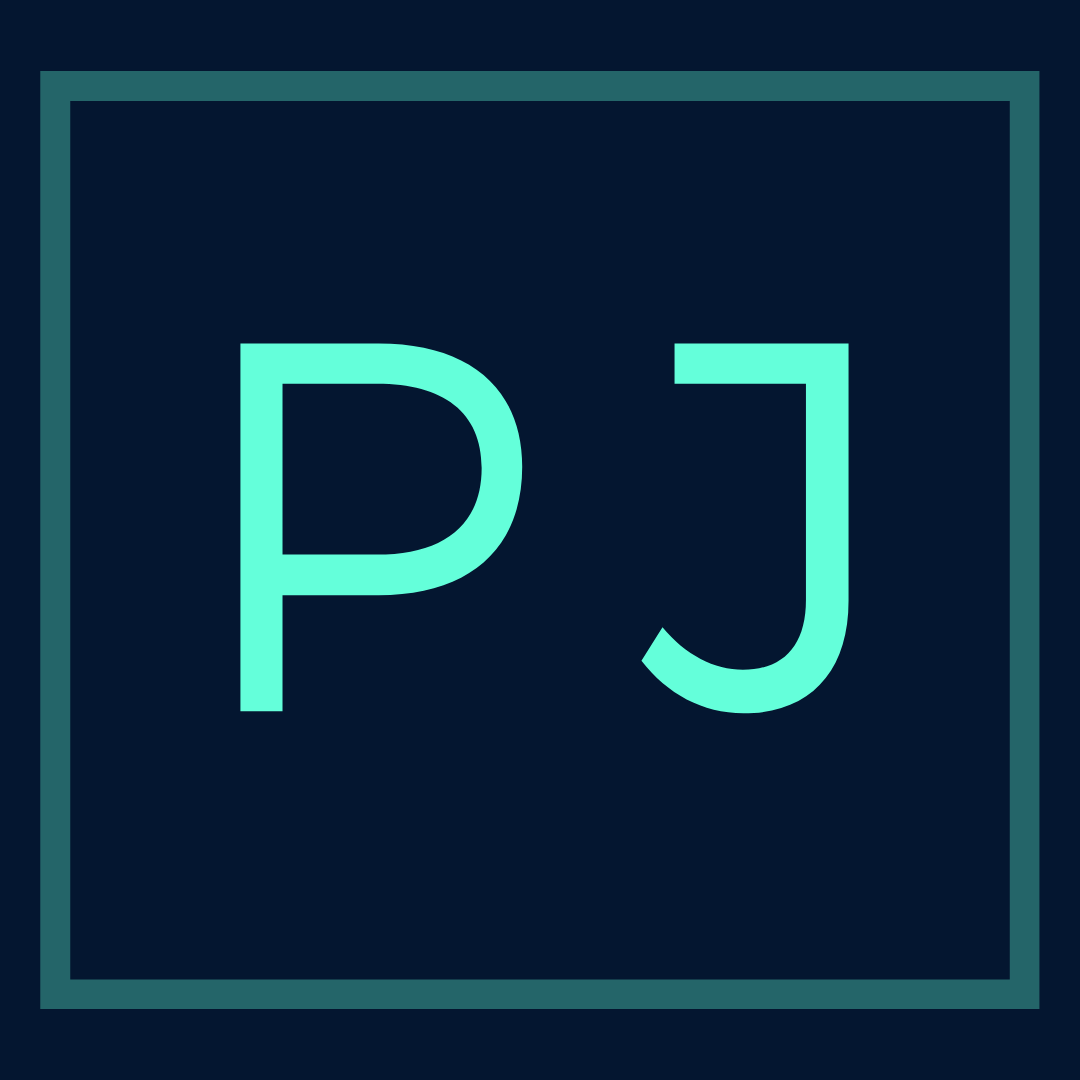
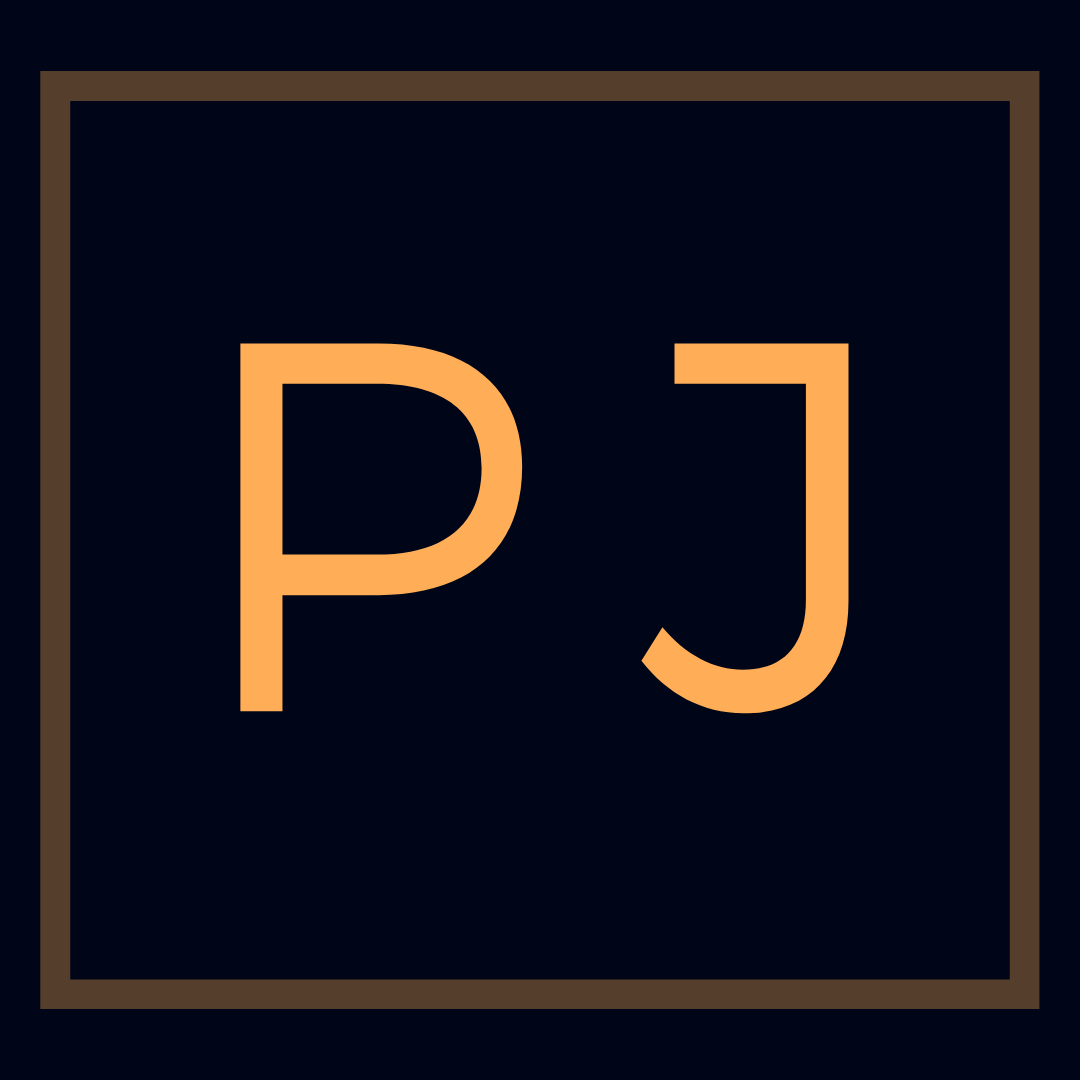
modificação de layout e inclusão da aba skills

Changed region(s): [[0.0306, 0.0611, 0.9778, 0.9472], [0.2139, 0.3056, 0.4889, 0.6722], [0.5806, 0.3056, 0.7944, 0.6722]]

diff --git a/src/index.css b/src/index.css
@@ -5,8 +5,7 @@ html {
 
 body {
   margin: 0;
-  min-height: 100%;
-  
+  min-height: 100%; 
   font-family: var(--font-sans);
   -webkit-font-smoothing: antialiased;
   -moz-osx-font-smoothing: grayscale;
@@ -26,9 +25,10 @@ code {
   --text-secondary:#8892b0;
   --slate: #8892b0;
   --light-slate: #a8b2d1;
-  --green:#64ffda;
+  --primary-color:#ffae57;
   --primary:#041630;
   --background:#041630;
+
 
   --font-sans: 'Calibre', 'San Francisco', 'SF Pro Text', -apple-system, system-ui, sans-serif;
   --font-mono: 'SF Mono', 'Fira Code', 'Fira Mono', 'Roboto Mono', monospace;
@@ -47,7 +47,7 @@ code {
 
 .txt_info{
   font-family: 'SF Mono','Fira Code','Fira Mono','Roboto Mono', monospace;
-  color: var(--green);
+  color: var(--primary-color);
   margin: 0px 0px 30px 4px;
   font-size: 18px;
   font-weight: 400;
@@ -82,7 +82,7 @@ code {
 
 #mainNav {
   border-bottom: 1px solid rgba(33, 37, 41, 0.1);
-  background-color: var(--background);
+  background-color: #000518;
   -webkit-transition: all 0.2s;
   -moz-transition: all 0.2s;
   transition: all 0.2s;
@@ -91,11 +91,11 @@ code {
 #mainNav .navbar-brand {
   font-weight: 700;
   text-transform: uppercase;
-  color: var(--green);
+  color: var(--primary-color);
 }
 
 #mainNav .navbar-brand:focus, #mainNav .navbar-brand:hover {
-  color: var(--green);
+  color: var(--primary-color);
 }
 
 #mainNav .navbar-nav > li.nav-item > a.nav-link,
@@ -108,12 +108,12 @@ code {
 
 #mainNav .navbar-nav > li.nav-item > a.nav-link:hover,
 #mainNav .navbar-nav > li.nav-item > a.nav-link:focus:hover {
-  color: var(--green);
+  color: var(--primary-color);
 }
 
 #mainNav .navbar-nav > li.nav-item > a.nav-link.active,
 #mainNav .navbar-nav > li.nav-item > a.nav-link:focus.active {
-  color: var(--green) !important;
+  color: var(--primary-color) !important;
   background-color: transparent;
 }
 

diff --git a/src/components/skills/Skills.css b/src/components/skills/Skills.css
@@ -1,0 +1,33 @@
+.skill{ 
+    align-items: center;
+    margin-left: 2%;
+    margin-top: 5%;
+}
+
+.skill ul.skills-list li {
+    position: relative;
+    margin-bottom: 10px;
+    padding-left: 20px;
+    font-size: 14px;
+    -moz-osx-font-smoothing: grayscale;
+    color: var(--text-secondary);
+    line-height: 1.3;
+}
+
+.skill ul.skills-list {
+    display: grid;
+    grid-template-columns: repeat(2, minmax(140px, 200px));
+    padding: 0px;
+    margin: 20px 0px 0px;
+    overflow: hidden;
+    list-style: outside none none;
+}
+
+.skill li::before {
+    content: "▹";
+    position: absolute;
+    left: 0px;
+    color: var(--primary-color);
+    font-size: 14px;
+    line-height: 12px;
+}

diff --git a/src/components/skills/Skills.js b/src/components/skills/Skills.js
@@ -1,0 +1,22 @@
+import React from "react";
+import Fade from "react-reveal/Fade";
+import { Constants } from "../../assets/const/Constants";
+import "./Skills.css";
+
+function Skills({}) {
+  return (
+    <Fade left>
+      <div>
+        <div class="skill">
+          <ul class="skills-list">
+            {Constants.skills.map((item, i) => (
+              <li>{item}</li>
+            ))}
+          </ul>
+        </div>
+      </div>
+    </Fade>
+  );
+}
+
+export default Skills;

diff --git a/public/index.html b/public/index.html
@@ -31,7 +31,7 @@
     -->
     <title>Paulo Junior</title>
   </head>
-  <body style="background-color:#041630;">
+  <body style="background-color:#000518;">
     <noscript>You need to enable JavaScript to run this app.</noscript>
     <div id="root"></div>
     <script src="https://cdn.jsdelivr.net/npm/bootstrap@5.0.0-beta2/dist/js/bootstrap.bundle.min.js" integrity="sha384-b5kHyXgcpbZJO/tY9Ul7kGkf1S0CWuKcCD38l8YkeH8z8QjE0GmW1gYU5S9FOnJ0" crossorigin="anonymous"></script>

diff --git a/src/pages/profile/aboutme/AboutMe.js b/src/pages/profile/aboutme/AboutMe.js
@@ -1,6 +1,7 @@
 import { Constants } from "../../../assets/const/Constants";
 import "./AboutMe.css";
 import Fade from "react-reveal/Fade";
+import Skills from "../../../components/skills/Skills";
 
 function AboutMe() {
   var date = new Date();
@@ -23,6 +24,7 @@ function AboutMe() {
             </div>
           </div>
         </div>
+        <Skills />
       </div>
     </Fade>
   );

diff --git a/src/pages/profile/Profile.js b/src/pages/profile/Profile.js
@@ -3,6 +3,7 @@ import HeaderProfile from "./headerprofile/HeaderProfile";
 import AboutMe from "./aboutme/AboutMe";
 import { JBHeader } from "../../components";
 import Social from "../../components/social/Social";
+import Skills from "../../components/skills/Skills";
 
 function Profile() {
   return (

diff --git a/src/assets/const/Constants.js b/src/assets/const/Constants.js
@@ -30,4 +30,13 @@ export const Constants = {
       url: "https://www.linkedin.com/in/paulo-braga-de-assis-junior-0ab54a101/",
     },
   ],
+
+  skills: [
+    "Java",
+    "Kotlin",
+    "Swift",
+    "React Native",
+    "React.js",
+    "JavaScript (ES6+)",
+  ],
 };

diff --git a/src/pages/profile/aboutme/AboutMe.css b/src/pages/profile/aboutme/AboutMe.css
@@ -26,7 +26,7 @@
     display: block;
     margin-left: auto;
     margin-right: auto;
-    border: 2px solid var(--green);
+    border: 2px solid var(--primary-color);
     top: 10%;
     left: 20%;
     z-index: -1;

diff --git a/src/components/social/Social.css b/src/components/social/Social.css
@@ -26,7 +26,7 @@
 svg {
     width: 20px;
     height: 20px;
-    color: var(--green);
+    color: var(--primary-color);
   }
 .a-social:focus {
     transform: translateY(-3px);
